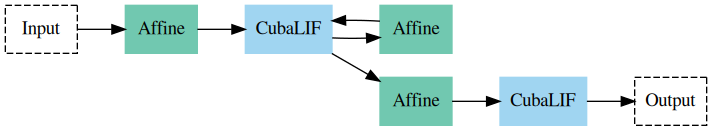
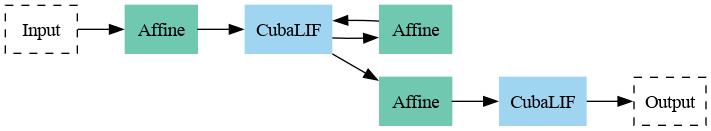
Add SVG saving & update example

diff --git a/example.py b/example.py
@@ -4,23 +4,28 @@ import numpy as np
 
 a = np.random.randn(2)
 
-cuba_params = {'type': 'CubaLIF', 'tau_mem': a, 'tau_syn': a, 'r': a, 'v_leak': a, 'v_threshold': a}
-affine_params = {'type': 'Affine', 'weight': np.zeros((2,2)), 'bias': False}
+# %%
+cu1_params = {'type': 'CubaLIF', 'tau_mem': a, 'tau_syn': a, 'r': a, 'v_leak': a, 'v_threshold': a}
+cu2_params = {'type': 'CubaLIF', 'tau_mem': a, 'tau_syn': a, 'r': a, 'v_leak': a, 'v_threshold': a}
+affine1_params = {'type': 'Affine', 'weight': np.zeros((2,2)), 'bias': False}
+affine_rec_params = {'type': 'Affine', 'weight': np.zeros((2,2)), 'bias': False}
+affine2_params = {'type': 'Affine', 'weight': np.zeros((2,2)), 'bias': False}
 
 ir = nir.NIRGraph(
     nodes={
         "input": nir.Input(input_type=np.array([2])),
-        "affine1": nir.Affine.from_dict(affine_params),
-        "cu1": nir.CubaLIF.from_dict(cuba_params),
-        "affine_rec": nir.Affine.from_dict(affine_params),
-        "affine2": nir.Affine.from_dict(affine_params),
-        "cu2": nir.CubaLIF.from_dict(cuba_params),
+        "affine1": nir.Affine.from_dict(affine1_params),
+        "cu1": nir.CubaLIF.from_dict(cu1_params),
+        "affine_rec": nir.Affine.from_dict(affine_rec_params),
+        "affine2": nir.Affine.from_dict(affine2_params),
+        "cu2": nir.CubaLIF.from_dict(cu2_params),
         "output": nir.Output(output_type=np.array([2]))
     },
     edges=[("input", "affine1"), ("affine1", "cu1"), ("affine_rec", "cu1"),  ("cu1", "affine_rec"), ("cu1", "affine2"), ("affine2", "cu2"), ("cu2", "output")])
 
-
-
-viz = nirviz.visualize(ir, draw_direction="left-right").to_image()
-viz.save("./img/srnn.png")
+nir.write("./srnn.nir", ir)
+# %%
+viz = nirviz.visualize(ir, orientation="horizontal")
 viz.show()
+viz.save("./img/srnn.png")
+viz.save("./img/srnn.svg")

diff --git a/nirviz/__main__.py b/nirviz/__main__.py
@@ -17,19 +17,10 @@ if __name__ == "__main__":
     yaml_file = args.yaml
     orientation = args.orientation
     # Load the NIR graph
+    graph = nirviz.visualize(nir_file, style_file=yaml_file, orientation=orientation)
     if args.output == "stdout":
-        graph = nirviz.visualize(nir_file, style_file=yaml_file, orientation=orientation)
-        graph_svg = str(graph)
-        sys.stdout.write(graph_svg)
-    elif args.output.endswith(".svg"):
-        graph = nirviz.visualize(nir_file, style_file=yaml_file, orientation=orientation)
-        graph_svg = str(graph)
-        with open(args.output, "w") as f:
-            f.write(graph_svg)
-    elif args.output.endswith(".png"):
-        graph = nirviz.visualize(nir_file, style_file=yaml_file, orientation=orientation)
-        graph_image = graph.to_image()
-        graph_image.save(args.output)
-
+        sys.stdout.write(str(graph))
+    elif args.output.endswith(".svg") or args.output.endswith(".png"):
+        graph.save(args.output)
     else:
         raise ValueError("Output file must be either .svg or .png format.")

diff --git a/nirviz/nirviz.py b/nirviz/nirviz.py
@@ -96,5 +96,12 @@ class visualize:
         png_bytes = self.viz_graph.pipe(format="png")
         return PIL.Image.open(io.BytesIO(png_bytes))
 
+    def save(self, path: typing.Union[str, pathlib.Path]) -> None:
+        path = pathlib.Path(path)
+        if path.suffix.lower() == ".svg":
+            path.write_text(str(self))
+        else:
+            self.to_image().save(path)
+
     def __repr__(self) -> str:
         return self.viz_graph.pipe(format="svg", encoding="utf-8")